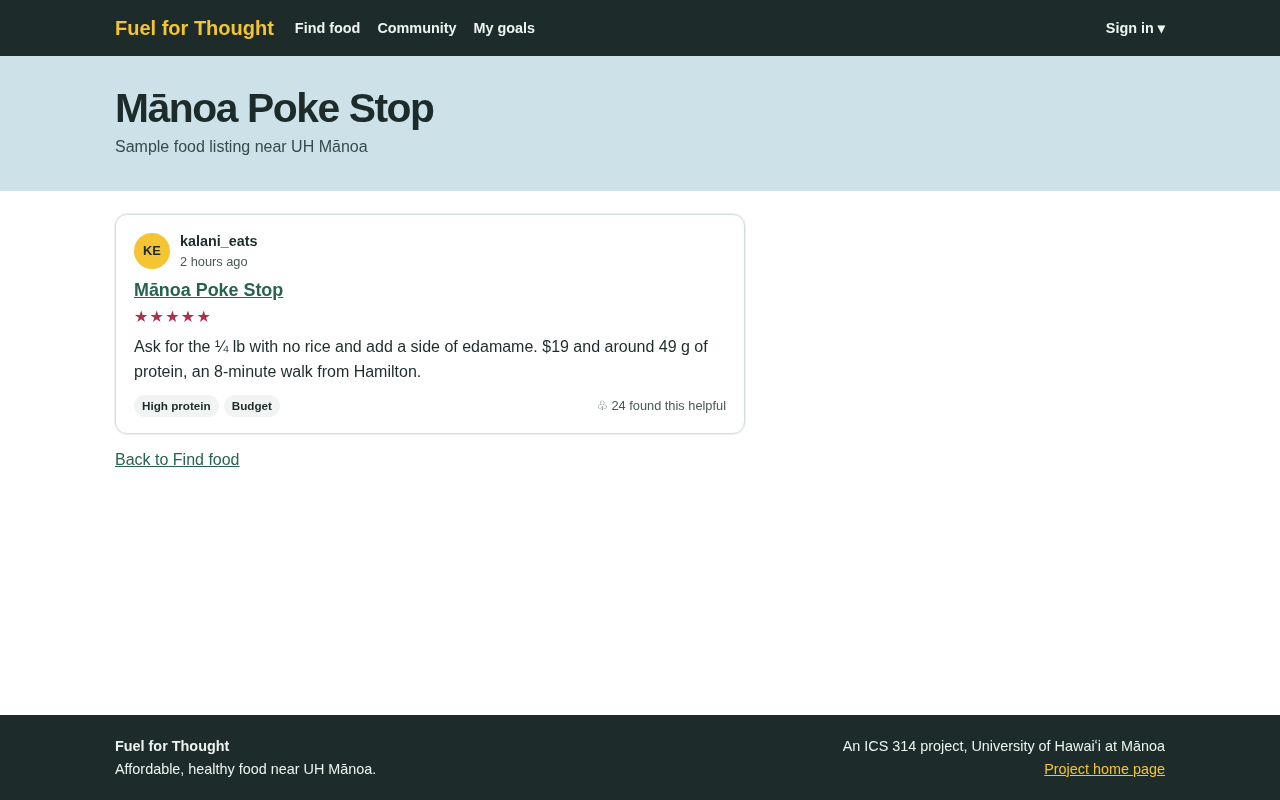
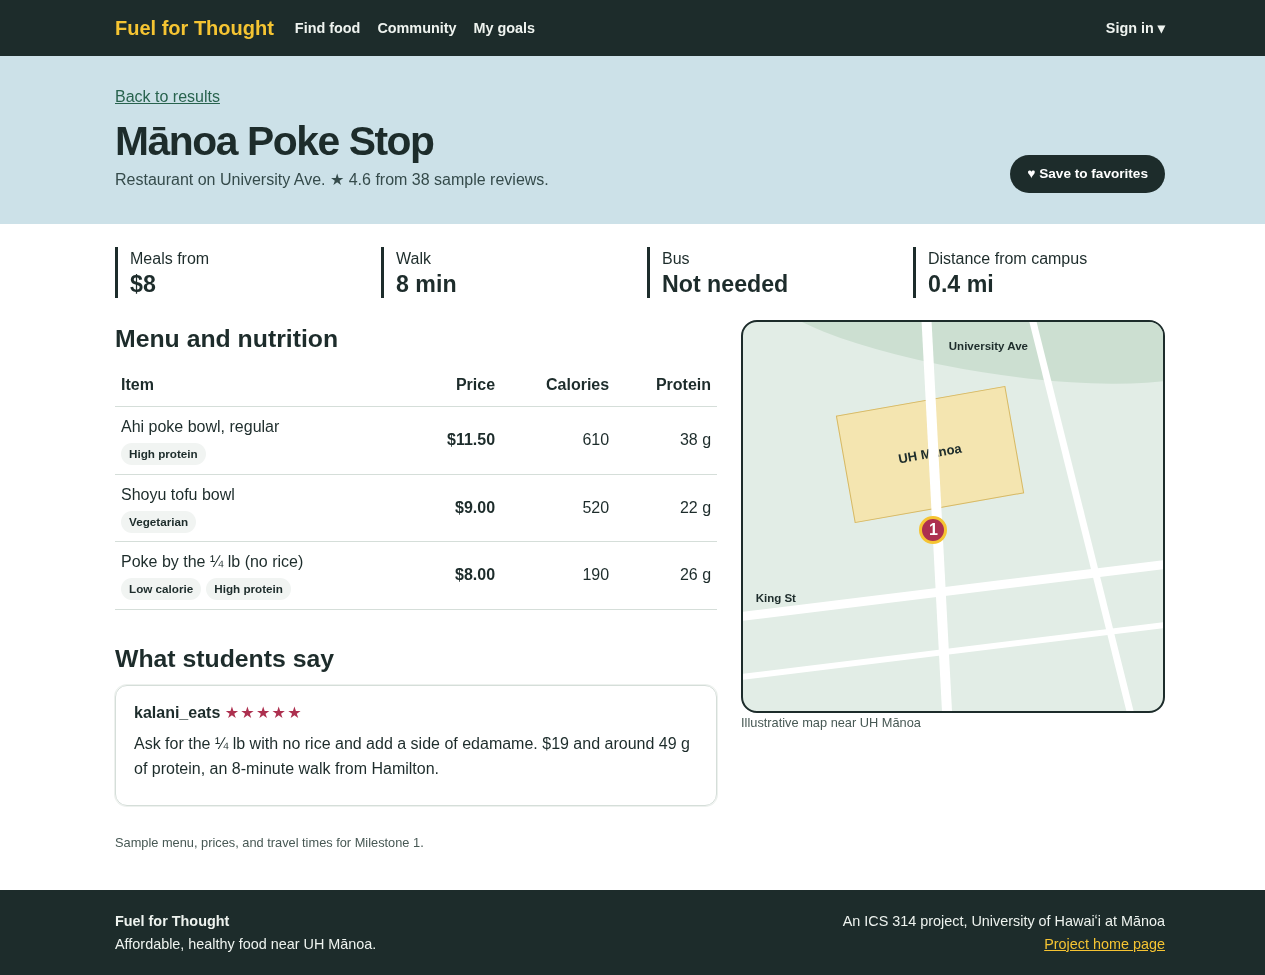
Add My goals and Mānoa Poke Stop mockups

diff --git a/public/style.css b/public/style.css
@@ -68,3 +68,63 @@ dd { margin: 0 0 10px; }
   .footer-inner { flex-direction: column; }
   .footer-inner > :last-child { text-align: left; }
 }
+
+.goals-layout { grid-template-columns: minmax(0, 1fr) minmax(0, 1fr) minmax(240px, 1fr); }
+#goals-form { grid-column: span 2; max-width: 610px; }
+#goals-form fieldset { border: 0; min-width: 0; margin: 0 0 20px; padding: 0; }
+#goals-form legend { padding: 0; margin-bottom: 8px; font-size: 1.2rem; font-weight: 700; }
+#goals-form fieldset p { margin: 0 0 8px; }
+#goals-form input[type=number], #goals-form textarea {
+  display: block; width: min(100%, 245px); padding: 7px 10px; margin-top: 6px;
+  border: 1px solid var(--line); border-radius: 4px; background: white;
+}
+#goals-form textarea { width: 100%; font: inherit; }
+.budget-input { display: flex; align-items: stretch; width: min(100%, 245px); margin-top: 6px; }
+.budget-input span { padding: 7px 11px; background: var(--soft); border: 1px solid var(--line); border-right: 0; border-radius: 4px 0 0 4px; }
+#goals-form .budget-input input { margin: 0; border-radius: 0 4px 4px 0; }
+.goal-options { display: flex; flex-wrap: wrap; gap: 7px; margin: 3px 0 12px; }
+.goal-choice { position: relative; cursor: pointer; }
+.goal-choice input { position: absolute; width: 1px; height: 1px; opacity: 0; }
+.goal-choice span { display: block; border: 1px solid var(--ink); border-radius: 99px; padding: 3px 11px; font-size: .83rem; font-weight: 700; }
+.goal-choice input:checked + span { background: var(--ink); color: white; }
+.goal-choice input:focus-visible + span { outline: 3px solid #ad6400; outline-offset: 3px; }
+.travel-options .goal-choice span { padding: 14px 12px; text-align: center; min-width: 75px; border-radius: 10px; }
+.travel-options .goal-choice input:checked + span { background: var(--green); border-color: var(--green); }
+#trip { display: block; width: min(100%, 340px); margin: 8px 0 0; accent-color: var(--ink); }
+#goals-form .button { border: 0; cursor: pointer; }
+.plan { background: var(--gold); }
+.plan .button { margin-top: 6px; }
+.place-banner { display: flex; flex-wrap: wrap; align-items: end; justify-content: space-between; gap: 8px 20px; }
+.back-results { flex-basis: 100%; }
+.place-stats { display: grid; grid-template-columns: repeat(4, minmax(0, 1fr)); gap: 14px; margin: 0 0 22px; }
+.place-stats div { border-left: 3px solid var(--ink); padding-left: 12px; }
+.place-stats dt { font-weight: 400; }
+.place-stats dd { margin: 0; font-weight: 700; font-size: 1.45rem; line-height: 1.15; }
+.place-layout { display: grid; grid-template-columns: minmax(0, 1.42fr) minmax(0, 1fr); gap: 24px; }
+.place-layout h2 { margin: 0 0 7px; font-size: 1.55rem; font-weight: 600; }
+.menu-table { width: 100%; border-collapse: collapse; }
+.menu-table th, .menu-table td { border-bottom: 1px solid var(--line); padding: 8px 6px; text-align: right; }
+.menu-table th:first-child { text-align: left; }
+.menu-table tbody th { font-weight: 400; }
+.menu-table .tag { margin-top: 3px; }
+.student-review { margin-top: 30px; }
+.place-map { margin: 0; }
+.map-art { position: relative; aspect-ratio: 1.08; border: 2px solid var(--ink); border-radius: 16px; overflow: hidden; background: #e2ede6; }
+.map-art::before { content: ''; position: absolute; width: 110%; height: 27%; top: -14%; left: 4%; border-radius: 50%; background: #ccdfd1; transform: rotate(9deg); }
+.map-campus { position: absolute; display: grid; place-items: center; width: 41%; height: 28%; left: 24%; top: 20%; transform: rotate(-10deg); background: #f4e5b0; border: 1px solid #d5b967; font-size: .82rem; font-weight: 700; }
+.map-road { position: absolute; display: block; background: white; }
+.university { width: 2.4%; height: 112%; top: -5%; left: 45%; transform: rotate(-3deg); }
+.side-road { width: 1.6%; height: 112%; top: -5%; left: 80%; transform: rotate(-14deg); }
+.king, .south { width: 110%; height: 2.4%; left: -5%; transform: rotate(-7deg); }
+.king { top: 68%; }
+.south { top: 84%; height: 1.6%; }
+.map-label { position: absolute; font-size: .72rem; font-weight: 700; }
+.avenue-label { left: 49%; top: 4%; }
+.king-label { left: 3%; top: 69%; }
+.map-pin { position: absolute; top: 50%; left: 42%; border: 3px solid var(--gold); border-radius: 50%; width: 28px; height: 28px; text-align: center; background: #ad304f; color: white; font-weight: 700; line-height: 22px; }
+@media (max-width: 675px) {
+  .goals-layout, .place-layout { grid-template-columns: 1fr; }
+  #goals-form { grid-column: auto; }
+  .place-stats { grid-template-columns: repeat(2, minmax(0, 1fr)); }
+  .menu-table { font-size: .85rem; }
+}

diff --git a/public/goals.js b/public/goals.js
@@ -1,0 +1,57 @@
+const form = document.querySelector('#goals-form');
+const status = document.querySelector('#goals-status');
+const storageKey = 'fuel-for-thought:goals';
+const dollars = new Intl.NumberFormat('en-US', { style: 'currency', currency: 'USD' });
+
+try {
+  const saved = JSON.parse(localStorage.getItem(storageKey));
+  if (saved) {
+    for (const input of form.elements) {
+      const values = saved[input.name];
+      if (!Array.isArray(values)) continue;
+      if (input.type === 'checkbox' || input.type === 'radio') {
+        input.checked = values.includes(input.value);
+      } else {
+        input.value = values[0];
+      }
+    }
+  }
+} catch {
+  // The sample defaults still work if storage is unavailable.
+}
+
+function updatePlan() {
+  const data = new FormData(form);
+  const budget = Number(data.get('budget'));
+  const trip = data.get('trip');
+  const diet = data.getAll('diet');
+  const travel = data.getAll('travel');
+  const nutrition = data.get('nutrition');
+  document.querySelector('#plan-budget').textContent = dollars.format(budget);
+  document.querySelector('#meal-budget').textContent = dollars.format(budget / 14) + ' per meal';
+  document.querySelector('#trip-time').textContent = trip;
+  document.querySelector('#plan-food').textContent = [nutrition + ' options', ...diet.map(label => label.toLowerCase())].join(', ') + '.';
+  document.querySelector('#plan-travel').textContent = travel.length
+    ? `Within ${trip} minutes by ${travel.map(label => label.toLowerCase()).join(', ')}.`
+    : `Within ${trip} minutes. No travel modes selected.`;
+}
+
+form.addEventListener('input', () => {
+  updatePlan();
+  status.textContent = 'Milestone 1 mockup. Goals are saved in this browser.';
+});
+
+form.addEventListener('submit', event => {
+  event.preventDefault();
+  const data = new FormData(form);
+  const names = new Set(Array.from(form.elements, input => input.name).filter(Boolean));
+  const goals = Object.fromEntries(Array.from(names, name => [name, data.getAll(name)]));
+  try {
+    localStorage.setItem(storageKey, JSON.stringify(goals));
+    status.textContent = 'Goals saved in this browser.';
+  } catch {
+    status.textContent = 'Browser storage is unavailable. Your current plan is still shown.';
+  }
+});
+
+updatePlan();
